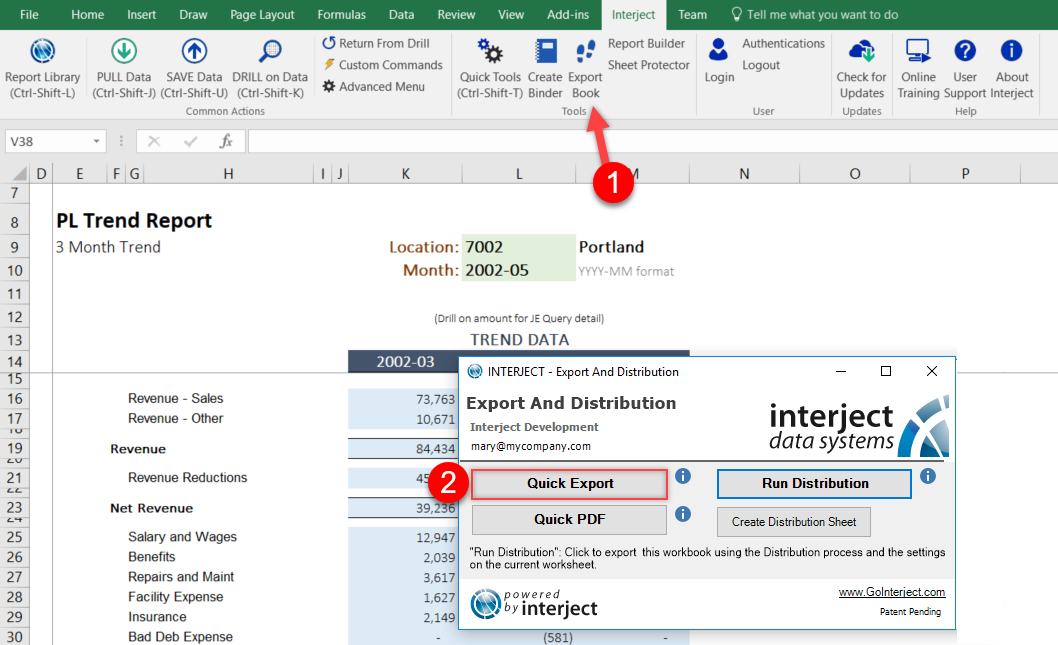
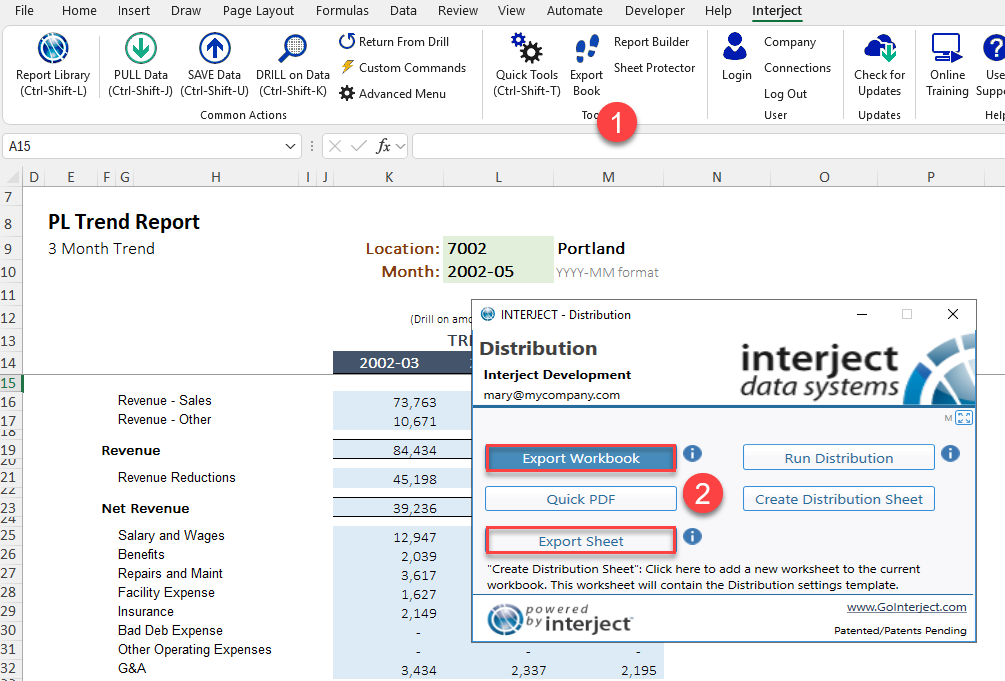
Updated Export doc page, new pics with Export Sheet

diff --git a/wGetStarted/L-Export-QuickExportAndPDF.md b/wGetStarted/L-Export-QuickExportAndPDF.md
@@ -19,9 +19,9 @@ The Quick Export and PDF method is the simplest way of distributing. The purpose
  If you are following the Training Labs, this report file can be found in the Report Library at Training Labs > Lab 7 Exporting Data > Lab 7.1 Quick Export and PDF.
 </blockquote>
 
-### Quick Export
+### Export Sheet or Workbook
 
-Quick Export removes Data Cell formulas and external links from a workbook so users without Interject can view them.
+Interject features the option to export the workbook or the current sheet. This export process removes Data Cell formulas and external links from a sheet or workbook so users without Interject can view them.
 
 Take the report **PL Trend Report with Data Cells** from the [Financial Walkthrough](/wAbout/Financial-Report.html) as an example. It is shown below.
 
@@ -38,7 +38,7 @@ Now you have the report to distribute. However, if you send this report with dat
 ![](/images/L-Export-QuickExPDF/03.png)
 <br>
 
-**Step 2:** To prevent this issue, you can use [Export Book](/wGetStarted/INTERJECT-Ribbon-Menu-Items.html#export-book) to create a new book and convert the data cell functions into regular values.
+**Step 2:** To prevent this issue, you can use [Export Book](/wGetStarted/INTERJECT-Ribbon-Menu-Items.html#export-book) to create a new book and convert the data cell functions into regular values. Select Export Book and then Export Sheet or Export Workbook.
 
 ![](/images/L-Export-QuickExPDF/04.png)
 <br>
